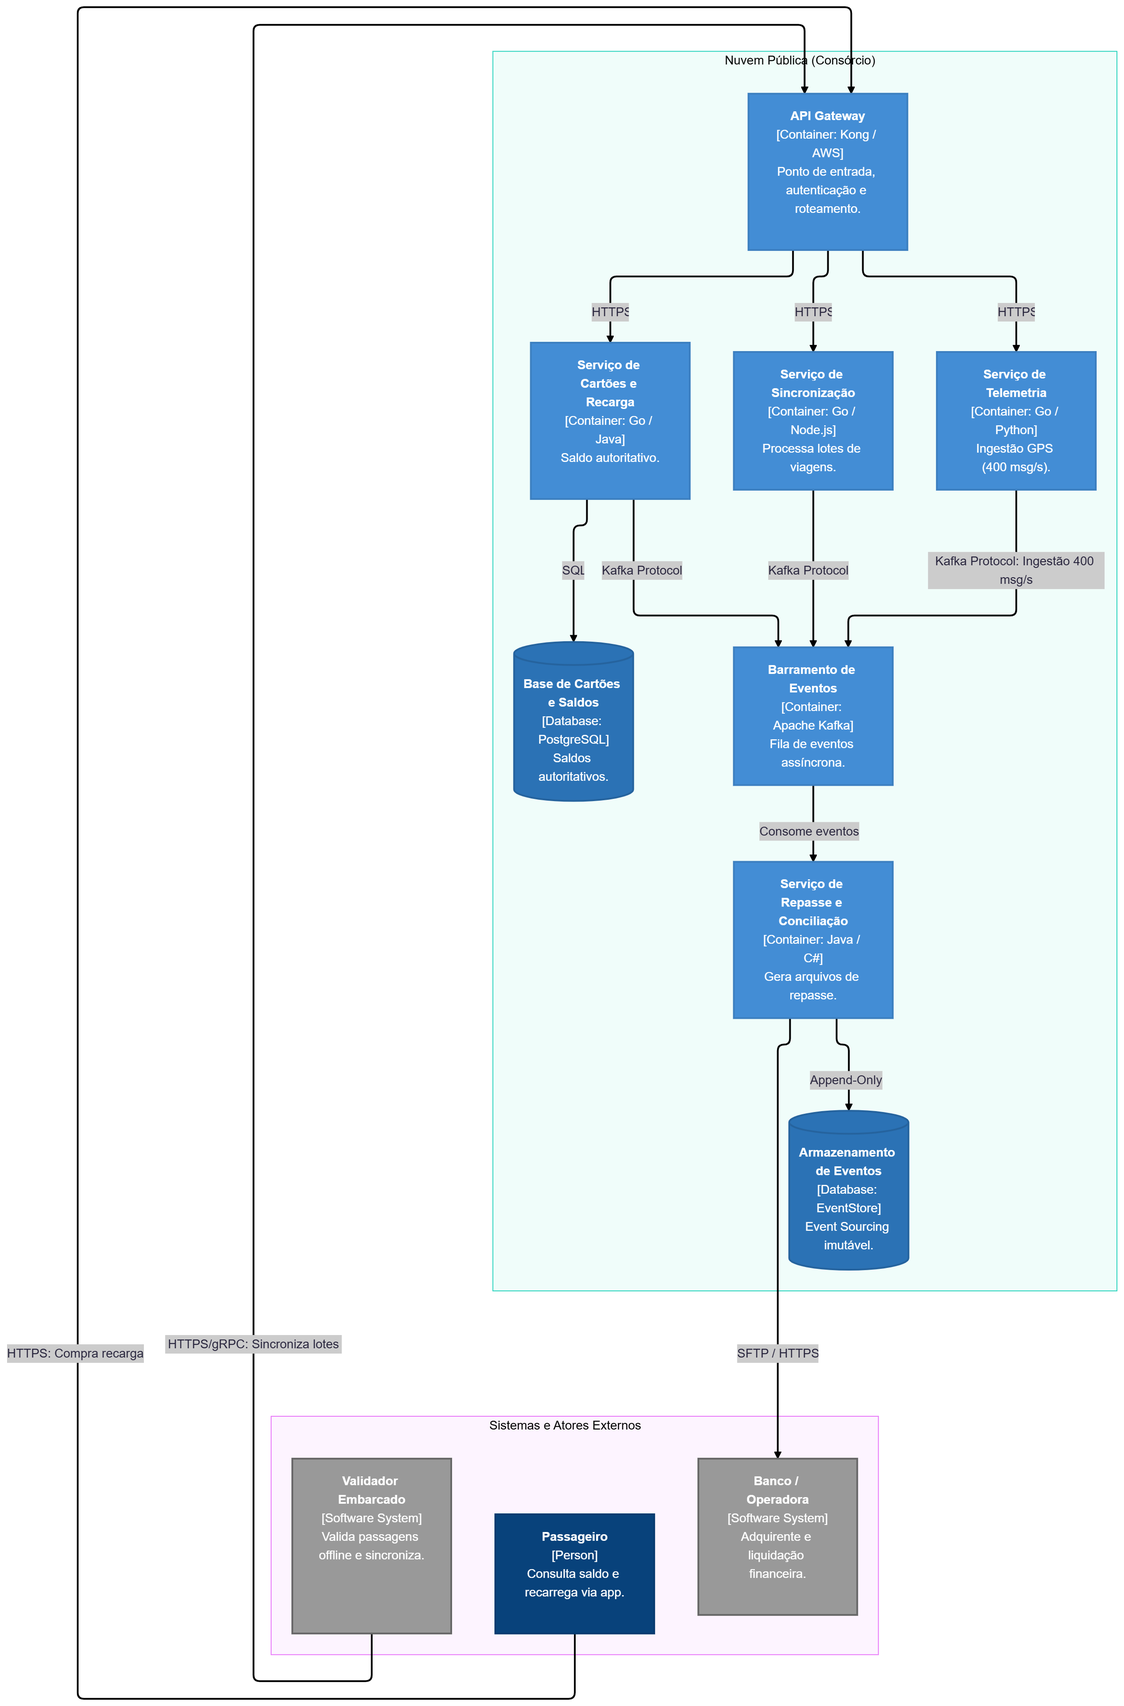
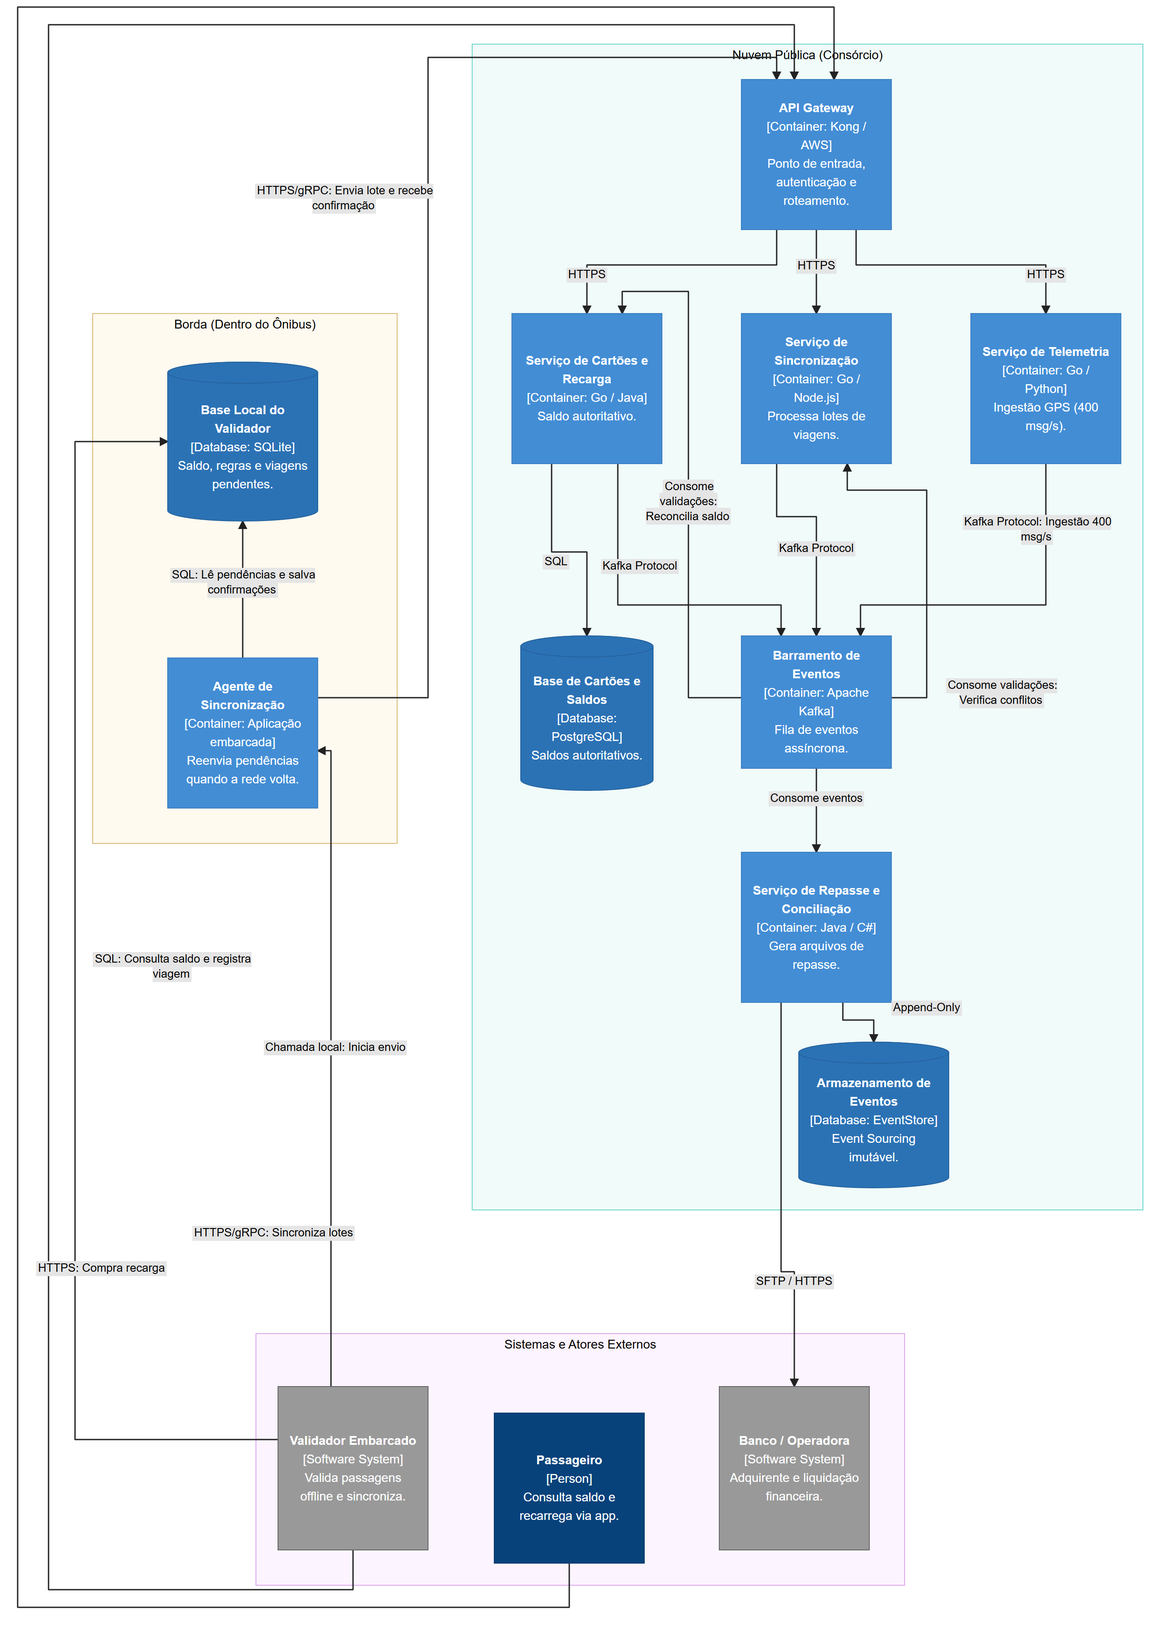
feat: pergunta 1 e complemento c4

diff --git a/2-arquitetura/renderizar-c4.py b/2-arquitetura/renderizar-c4.py
@@ -1,0 +1,89 @@
+"""Renderiza o conteúdo Mermaid com posições fixas seguindo a referência do grupo."""
+from pathlib import Path
+import html
+import re
+from playwright.sync_api import sync_playwright
+
+ROOT = Path(__file__).resolve().parent
+source = (ROOT / 'c4-containers.mmd').read_text(encoding='utf-8-sig')
+nodes = {m[0]: (m[1], m[2]) for m in re.findall(r'^\s*(\w+)\[\(?"(.*?)"\)?\]:::(\w+)', source, re.M)}
+edges = {(a, b): label for a, label, b in re.findall(r'^(\w+) -->\|(.*?)\| (\w+)', source, re.M)}
+positions = {
+    'api_gateway': (840,90,170,170),
+    'srv_recarga': (580,355,170,170),
+    'srv_validacao': (840,355,170,170),
+    'srv_telemetria': (1100,355,170,170),
+    'db_cartoes': (590,720,150,175),
+    'event_bus': (840,720,170,150),
+    'srv_repasse': (840,965,170,170),
+    'db_events': (905,1180,170,165),
+    'validador': (315,1570,170,185),
+    'passageiro': (560,1600,170,170),
+    'banco': (815,1570,170,185),
+    'db_local': (190,410,170,180),
+    'agente_sync': (190,745,170,170),
+}
+# Cada relação conserva o texto do Mermaid; apenas seu trajeto é fixado aqui.
+routes = [
+ ('passageiro','api_gateway',[(645,1600),(645,1820),(20,1820),(20,8),(945,8),(945,90)],(115,1450,200)),
+ ('validador','api_gateway',[(400,1755),(400,1800),(55,1800),(55,28),(900,28),(900,90)],(310,1410,250)),
+ ('api_gateway','srv_recarga',[(880,260),(880,300),(665,300),(665,355)],(665,325,65)),
+ ('api_gateway','srv_validacao',[(925,260),(925,355)],(925,315,65)),
+ ('api_gateway','srv_telemetria',[(970,260),(970,300),(1185,300),(1185,355)],(1185,325,65)),
+ ('srv_recarga','db_cartoes',[(625,525),(625,625),(665,625),(665,720)],(630,650,50)),
+ ('srv_recarga','event_bus',[(700,525),(700,685),(885,685),(885,720)],(725,655,115)),
+ ('srv_validacao','event_bus',[(880,525),(880,585),(925,585),(925,720)],(925,635,115)),
+ ('srv_telemetria','event_bus',[(1185,525),(1185,685),(975,685),(975,720)],(1175,605,200)),
+ ('event_bus','srv_repasse',[(925,870),(925,965)],(925,918,140)),
+ ('srv_repasse','db_events',[(955,1135),(955,1155),(990,1155),(990,1180)],(1050,1155,110)),
+ ('srv_repasse','banco',[(885,1135),(885,1440),(900,1440),(900,1570)],(900,1465,125)),
+ ('validador','db_local',[(315,1630),(85,1630),(85,500),(190,500)],(195,1100,200)),
+ ('validador','agente_sync',[(375,1570),(375,850),(360,850)],(380,1200,165)),
+ ('agente_sync','db_local',[(275,745),(275,590)],(275,665,200)),
+ ('agente_sync','api_gateway',[(360,790),(485,790),(485,65),(880,65),(880,90)],(390,230,220)),
+ ('event_bus','srv_recarga',[(840,790),(780,790),(780,330),(705,330),(705,355)],(780,960,125)),
+ ('event_bus','srv_validacao',[(1010,790),(1050,790),(1050,555),(960,555),(960,525)],(1135,790,155)),
+]
+assert set(nodes) == set(positions), 'Há caixas sem posição definida.'
+assert set(edges) == {(a,b) for a,b,_,_ in routes}, 'Há relações sem trajeto definido.'
+svg = ['<svg xmlns="http://www.w3.org/2000/svg" width="1320" height="1840" viewBox="0 0 1320 1840">',
+ '<defs><marker id="arrow" markerWidth="7" markerHeight="7" refX="6" refY="3.5" orient="auto"><path d="M0,0 L7,3.5 L0,7 Z" fill="#222"/></marker></defs>',
+ '<rect width="1320" height="1840" fill="white"/>']
+def group(x,y,w,h,title,fill,stroke):
+    svg.append(f'<rect x="{x}" y="{y}" width="{w}" height="{h}" fill="{fill}" stroke="{stroke}"/>')
+    svg.append(f'<text x="{x+w/2}" y="{y+17}" text-anchor="middle" font-family="Arial" font-size="14">{html.escape(title)}</text>')
+group(535,50,760,1320,'Nuvem Pública (Consórcio)','#f0fbfa','#70d7cd')
+group(290,1510,735,285,'Sistemas e Atores Externos','#fcf4ff','#dda7ee')
+group(105,355,345,600,'Borda (Dentro do Ônibus)','#fffaf0','#dbbb7a')
+for a,b,points,label in routes:
+    path = 'M' + ' L'.join(f'{x},{y}' for x,y in points)
+    svg.append(f'<path d="{path}" fill="none" stroke="#222" stroke-width="1.5" stroke-linejoin="round" marker-end="url(#arrow)"/>')
+colors={'person':('#08427B','#073B6F'),'external':('#999999','#666666'),'container':('#438DD5','#3C7FC0'),'database':('#2B72B5','#25639E')}
+for key,(x,y,w,h) in positions.items():
+    label,kind=nodes[key]
+    fill,stroke=colors[kind]
+    if kind=='database':
+        svg.append(f'<path d="M{x},{y+12} A{w/2},12 0 0 1 {x+w},{y+12} L{x+w},{y+h-12} A{w/2},12 0 0 1 {x},{y+h-12} Z" fill="{fill}" stroke="{stroke}"/>')
+        svg.append(f'<ellipse cx="{x+w/2}" cy="{y+12}" rx="{w/2}" ry="12" fill="{fill}" stroke="{stroke}"/>')
+        ty,th=y+25,h-38
+    else:
+        svg.append(f'<rect x="{x}" y="{y}" width="{w}" height="{h}" fill="{fill}" stroke="{stroke}"/>')
+        ty,th=y,h
+    svg.append(f'<foreignObject x="{x+10}" y="{ty}" width="{w-20}" height="{th}"><div xmlns="http://www.w3.org/1999/xhtml" style="height:100%;display:flex;align-items:center;justify-content:center;text-align:center;color:white;font:14px/1.5 Arial"><div>{label}</div></div></foreignObject>')
+for a,b,points,(x,y,w) in routes:
+    # A posição dos rótulos é independente para mantê-los fora das caixas.
+    if (a,b)==('event_bus','srv_recarga'):
+        x,y,w=780,565,105
+    label=html.escape(edges[a,b])
+    svg.append(f'<foreignObject x="{x-w/2}" y="{y-22}" width="{w}" height="90"><div xmlns="http://www.w3.org/1999/xhtml" style="text-align:center;font:13px/1.3 Arial"><span style="background:#e5e5e5;padding:2px">{label}</span></div></foreignObject>')
+svg.append('</svg>')
+target=ROOT/'c4-containers.svg'
+target.write_text('\n'.join(svg),encoding='utf-8')
+with sync_playwright() as p:
+    chrome=sorted((Path.home()/'.cache/puppeteer/chrome').glob('*/chrome-win64/chrome.exe'))[0]
+    browser=p.chromium.launch(executable_path=str(chrome),headless=True)
+    page=browser.new_page(viewport={'width':1320,'height':1840},device_scale_factor=2)
+    page.set_content('<html><body style="margin:0">'+''.join(svg)+'</body></html>')
+    page.screenshot(path=str(ROOT/'c4-containers-layout.png'),full_page=True)
+    browser.close()
+print('SVG e PNG gerados; 13 caixas e 18 relações preservadas.')

diff --git a/2-arquitetura/perguntas.md b/2-arquitetura/perguntas.md
@@ -1,8 +1,22 @@
 # Perguntas: Caso ônibus Envelope B
 
-### 1. Como o validador aceita a passagem sem rede, e como o sistema descobre depois que a mesma passagem foi usada em dois ônibus?
+### 1\. Como o validador aceita a passagem sem rede, e como o sistema descobre depois que a mesma passagem foi usada em dois ônibus?
 
-### 2. Como o saldo do cartão fica consistente entre recarga no aplicativo e uso no ônibus, com atraso de sincronização?
+O validador usa uma cópia local do saldo, das regras e dos bloqueios para liberar a passagem sem depender da internet. Antes de abrir a catraca, atualiza o saldo local e salva o registro com identificador único, cartão, ônibus e horário. Isso permite continuar funcionando durante as quatro horas sem conexão previstas no caso.
+
+Quando a conexão volta, os registros são enviados pelo API Gateway ao Serviço de Sincronização e seguem pelo Kafka. O ônibus guarda as pendências até receber a confirmação. Se um registro chegar novamente, seu identificador permite reconhecer que ele já foi processado e evitar outra cobrança.
+
+O backend também compara os usos do mesmo cartão em ônibus diferentes para encontrar conflitos. Horários muito próximos levantam uma suspeita, mas precisam considerar as integrações permitidas; quando houver um identificador da passagem, ele permite verificar sua reutilização. Como dois ônibus sem rede não trocam informações, não é possível impedir todos esses casos na hora. A conferência acontece depois, com ajuste do saldo e envio dos bloqueios necessários, conforme o ADR 0001.
+
+Os ADRs que justificam essas decisões são:
+
+* 0001 — Permite a validação local sem rede e reconhece a limitação de impedir usos simultâneos em ônibus desconectados.
+* 0002 — Mantém o saldo autoritário no serviço de Cartões e Recarga e define a reconciliação das operações sem cobrar novamente os registros repetidos.
+* 0003 — Define o envio de eventos persistentes e o uso de identificadores únicos para tratar reenvios.
+
+O diagrama que justifica essa decisão é o de nível 2, que mostra a comunicação entre o validador, a base local, o agente de sincronização, o API Gateway, o Serviço de Sincronização, o Kafka e o Serviço de Cartões e Recarga.
+
+### 2\. Como o saldo do cartão fica consistente entre recarga no aplicativo e uso no ônibus, com atraso de sincronização?
 
 O saldo do cartão se mantém consistente entre recarga e aplicativo e uso no ônibus mesmo com atraso de sincronização porque, na arquitetura definida, o processo é o seguinte: o passageiro faz a recarga no aplicativo e o Serviço de Cartões e Recarga atualiza o saldo no banco de dados central, registrando uma ordem de pendente de escrita no cartão. A partir disso, a nuvem envia essa ordem de carga para a memória local dos validadores embarcados dos ônibus quando há conexão com a internet.
 
@@ -11,13 +25,14 @@ Quando o passageiro aproxima o cartão na maquininha do ônibus que não está c
 No momento em que o ônibus se conecta à internet, ele envia o lote de confirmações de escrita para o Serviço de Sincronização via barramento de eventos (Kafka), com um identificador único. A nuvem atualiza o status da transação para concluída e descarta eventuais duplicidades.
 
 Os ADRs que justificam essas decisões são:
-- 0001 — Justifica o uso de uma arquitetura baseada em eventos para desacoplar a compra no app da validação no ônibus.
-- 0002 — Estabelece que o saldo real deve ficar na nuvem e que a gravação física síncrona no chip do cartão deve ser feita pelo validador embarcado.
-- 0003 — Define o uso do barramento Kafka com identificador único para garantir a idempotência.
+
+* 0001 — Justifica o uso de uma arquitetura baseada em eventos para desacoplar a compra no app da validação no ônibus.
+* 0002 — Estabelece que o saldo real deve ficar na nuvem e que a gravação física síncrona no chip do cartão deve ser feita pelo validador embarcado.
+* 0003 — Define o uso do barramento Kafka com identificador único para garantir a idempotência.
 
 Os diagramas que justificam essa decisão são os de nível 1 e 2, que mapeiam visualmente as fronteiras de comunicação entre o validador embarcado, o API Gateway, o Serviço de Sincronização, o barramento Kafka e a base de cartões e saldos.
 
-### 3. Como a telemetria escala no pico sem derrubar o restante do sistema?
+### 3\. Como a telemetria escala no pico sem derrubar o restante do sistema?
 
 A telemetria escala no pico sem derrubar o restante do sistema porque, na arquitetura definida, o fluxo de posições GPS é totalmente separado dos fluxos críticos de validação e recarga, tanto na entrada quanto no processamento.
 
@@ -28,13 +43,14 @@ O Kafka atua como amortecedor de pico (buffer): se os consumidores de telemetria
 Além disso, como o Serviço de Telemetria é uma unidade de implantação independente (ADR 0004), ele pode escalar horizontalmente — adicionando mais instâncias — sem afetar ou exigir reimplantação dos outros serviços. Os serviços críticos de Cartões e Recarga, por sua vez, estão implantados em células independentes e redundantes (ADR 0005), com recursos de computação e banco de dados próprios, completamente isolados da infraestrutura de telemetria.
 
 Os ADRs que justificam essas decisões são:
-- 0003 — Define eventos assíncronos persistentes como padrão de integração, permitindo que telemetria use o barramento sem acoplamento temporal com validação e recarga.
-- 0004 — Separa o backend por subdomínios de negócio, garantindo que o Serviço de Telemetria seja uma unidade independente com escala própria.
-- 0005 — Implanta os serviços críticos em células independentes, isolando fisicamente validação e recarga de qualquer pico de carga nos demais subdomínios.
+
+* 0003 — Define eventos assíncronos persistentes como padrão de integração, permitindo que telemetria use o barramento sem acoplamento temporal com validação e recarga.
+* 0004 — Separa o backend por subdomínios de negócio, garantindo que o Serviço de Telemetria seja uma unidade independente com escala própria.
+* 0005 — Implanta os serviços críticos em células independentes, isolando fisicamente validação e recarga de qualquer pico de carga nos demais subdomínios.
 
 O diagrama que justifica essa decisão é o de Nível 2 (Contêineres), que mostra o Serviço de Telemetria como um contêiner separado, conectado ao Barramento de Eventos por Kafka Protocol (400 msg/s), sem nenhuma dependência direta com o Serviço de Cartões e Recarga ou com a Base de Cartões e Saldos.
 
-### 4. Como o repasse mensal é recalculado se uma regra de tarifa mudou no meio do mês?
+### 4\. Como o repasse mensal é recalculado se uma regra de tarifa mudou no meio do mês?
 
 Cada viagem validada gera um evento imutável, o ValidacaoRealizada, que chega ao Consumidor de Eventos de Viagem e é gravado no Armazenamento de Eventos, sem sobrescrita, só acréscimo. Esse evento é a fonte de verdade da viagem: ele não muda depois, só pode ser reinterpretado.
 
@@ -48,12 +64,12 @@ Se depois do fechamento uma operadora contesta e a tarifa aplicada estava errada
 
 Os ADRs que justificam essas decisões são:
 
-- 0004 - Separa o backend por subdomínios e estabelece o Repasse e Conciliação como serviço próprio, dono dos seus dados de fechamento.
-- 0003 - Define eventos assíncronos persistentes como padrão de integração, incluindo o evento de validação de viagem que alimenta o Repasse e permite tratá-lo como fato imutável.
+* 0004 - Separa o backend por subdomínios e estabelece o Repasse e Conciliação como serviço próprio, dono dos seus dados de fechamento.
+* 0003 - Define eventos assíncronos persistentes como padrão de integração, incluindo o evento de validação de viagem que alimenta o Repasse e permite tratá-lo como fato imutável.
 
 O diagrama que justifica essa decisão é o de nível 3, que mapeia visualmente as fronteiras de comunicação entre o Consumidor de Eventos de Viagem, o Núcleo de Fechamento, o Registro de Regras Tarifárias, o Filtro Consolidador por Operadora e o Armazenamento de Fechamento Mensal, dentro do Serviço de Repasse e Conciliação
 
-### 5. Como o histórico de viagens de uma pessoa é apagado quando ela pede, sem quebrar a conciliação financeira?
+### 5\. Como o histórico de viagens de uma pessoa é apagado quando ela pede, sem quebrar a conciliação financeira?
 
 O histórico de viagens de uma pessoa é apagado sem quebrar a conciliação financeira porque a arquitetura separa, desde a origem, os dados pessoais identificadores dos fatos financeiros da viagem.
 
@@ -64,15 +80,14 @@ Essa separação segue o princípio de pseudonimização: o evento de viagem reg
 Quando o passageiro solicita a exclusão dos seus dados pessoais (direito garantido pela LGPD), o sistema executa as seguintes etapas:
 
 1. Remove ou anonimiza o vínculo pessoal na Base de Cartões e Saldos: o registro que liga o identificador pseudonimizado ao nome, CPF e demais dados pessoais é apagado ou substituído por dados irreversíveis (anonimização).
-
 2. Mantém os fatos financeiros intactos no Armazenamento de Eventos: os eventos de viagem permanecem com o identificador pseudonimizado (abc123), mas esse identificador agora não leva a ninguém — é um dado órfão, sem possibilidade de reidentificação.
-
 3. A conciliação financeira não é afetada, pois o Serviço de Repasse e Conciliação (diagrama C4 de componentes) trabalha com os eventos de viagem e as regras tarifárias, não com os dados pessoais do passageiro. O Núcleo de Fechamento reproduz eventos, aplica tarifa vigente e consolida por operadora — tudo isso usa apenas o identificador pseudonimizado, o horário, o veículo e o valor da tarifa. Nenhuma dessas informações é perdida com a exclusão dos dados pessoais.
-
 4. Contestações dentro do prazo de 30 dias continuam possíveis: a API de Conciliação e Contestação expõe os registros financeiros com a versão de regra aplicada. Se o passageiro já pediu exclusão, o registro financeiro continua existindo para fins de auditoria — apenas não é mais possível identificar a pessoa.
 
 Os ADRs que justificam essas decisões são:
-- 0003 — Define eventos assíncronos persistentes como padrão de integração, incluindo eventos de viagem como fatos imutáveis. A imutabilidade dos eventos é compatível com a anonimização porque o evento em si não é alterado — apenas o vínculo externo é removido.
-- 0004 — Separa o backend por subdomínios, garantindo que o Serviço de Cartões (dono dos dados pessoais) e o Serviço de Repasse (dono dos dados financeiros) tenham propriedade de dados independentes.
+
+* 0003 — Define eventos assíncronos persistentes como padrão de integração, incluindo eventos de viagem como fatos imutáveis. A imutabilidade dos eventos é compatível com a anonimização porque o evento em si não é alterado — apenas o vínculo externo é removido.
+* 0004 — Separa o backend por subdomínios, garantindo que o Serviço de Cartões (dono dos dados pessoais) e o Serviço de Repasse (dono dos dados financeiros) tenham propriedade de dados independentes.
 
 Os diagramas que justificam essa decisão são os de Nível 2 (Contêineres), que mostra a separação entre a Base de Cartões e Saldos (onde vivem os dados pessoais) e o Armazenamento de Eventos (onde ficam os fatos financeiros pseudonimizados), e o de Nível 3 (Componentes), que mostra que o Armazenamento de Eventos de Viagem armazena dados com "id pseudonimizado", confirmando que o fluxo financeiro inteiro opera sem dados pessoais diretos.
+

diff --git a/2-arquitetura/referencias-c4-pergunta-1.md b/2-arquitetura/referencias-c4-pergunta-1.md
@@ -1,0 +1,39 @@
+# C4 nível 2 e pergunta 1 — referências e integração
+
+O [diagrama unificado](c4-containers.png) reúne a parte de nuvem/APIs da Júlia Kimura com a parte de borda/Kafka do Kauê. O [Mermaid](c4-containers.mmd) é a fonte editável. A resposta está na pergunta 1 de [perguntas.md](perguntas.md).
+
+## Referências
+
+- **ABREU, Douglas H. S.** *Um problema, cinco realidades*. PUC-Campinas, 2026-2. Caso Ônibus, Envelope B: fonte das premissas de volume, prazo sem rede e resposta em até 300 ms.
+- **ABREU, Douglas H. S.** *Estilos Arquiteturais de Software: guia de consulta*. Versão de 8 set. 2026. Base da matriz da Entrega 1. Nesta integração, as escolhas seguem os ADRs 0001, 0002, 0003 e 0005 já escritos pelo grupo.
+- **BROWN, Simon.** [Container diagram](https://c4model.com/diagrams/container) e [Notation](https://c4model.com/diagrams/notation). C4 Model. Consultados em 20 set. 2026. Aplicações, armazenamentos, fronteiras e relações do nível 2.
+- **APACHE SOFTWARE FOUNDATION.** [Apache Kafka — Design](https://kafka.apache.org/40/design/design/). Documentação 4.0. Consultada em 20 set. 2026. Entrega de eventos, repetição e ordem por partição; a idempotência no banco da aplicação continua necessária.
+- **SQLITE.** [Atomic Commit In SQLite](https://www.sqlite.org/atomiccommit.html). Consultado em 20 set. 2026. Transações locais; a configuração e o armazenamento do equipamento precisam ser validados.
+- **AMAZON WEB SERVICES.** [Transactional outbox pattern](https://docs.aws.amazon.com/prescriptive-guidance/latest/cloud-design-patterns/transactional-outbox.html). Consultado em 20 set. 2026. Gravação da operação e da pendência de publicação na mesma transação. A referência não implica escolher AWS.
+- **KIMURA, Júlia.** Código Mermaid do C4 nível 2 — nuvem/APIs, compartilhado no grupo. Base do diagrama integrado.
+
+## Como ler o desenho
+
+O código da Júlia foi preservado, incluindo nomes, tecnologias, cores e conexões. O complemento do Kauê está no final do Mermaid: base local, agente de sincronização e consumo das validações pelos serviços de Cartões e Recarga e de Sincronização.
+
+A ligação original do validador com o gateway resume a sincronização. O agente acrescentado detalha quem executa esse envio; não representa um segundo envio do mesmo lote. A base local guarda as operações até a confirmação do backend. Os identificadores são mantidos nos reenvios para evitar outra cobrança.
+
+SQLite é a proposta para a base local. As células do ADR 0005 e os detalhes de persistência e confirmação dos eventos devem ser tratados nos documentos de arquitetura; o complemento não muda a estrutura de nuvem enviada pela Júlia.
+
+## Pontos para a revisão do grupo
+
+- A pergunta 2 descreve escrita de créditos no chip, mas o ADR 0002 define uma visão local assinada e versionada, sem definir esse mecanismo de escrita. A pergunta 1 segue o ADR; a diferença precisa ser alinhada pela equipe.
+- Na pergunta 3, tópicos exclusivos não garantem isolamento físico nem armazenamento ilimitado. O desenho original mostra um barramento; o isolamento de recursos e os limites de capacidade precisam ser alinhados com o texto pelo grupo.
+- O limite de cinco minutos do spike é uma regra de demonstração. Duas viagens próximas do mesmo cartão podem indicar conflito, mas não comprovam sozinhas uso fraudulento da mesma passagem.
+
+## Gerar o PNG
+
+O conteúdo continua no Mermaid. Para manter as posições da foto, o PNG é gerado pelo script de layout fixo, que lê os textos e conexões desse arquivo. O SVG também fica disponível em `c4-containers.svg`.
+
+Na raiz do repositório, com Python, Playwright e Chrome instalados (o script procura o Chrome no cache local do Puppeteer):
+
+```sh
+python 2-arquitetura/renderizar-c4.py
+```
+
+O script gera `c4-containers-layout.png`. Após conferir a imagem, copie-a para `c4-containers.png`. Renderizar o Mermaid diretamente usa posicionamento automático e não conserva o layout da foto.
